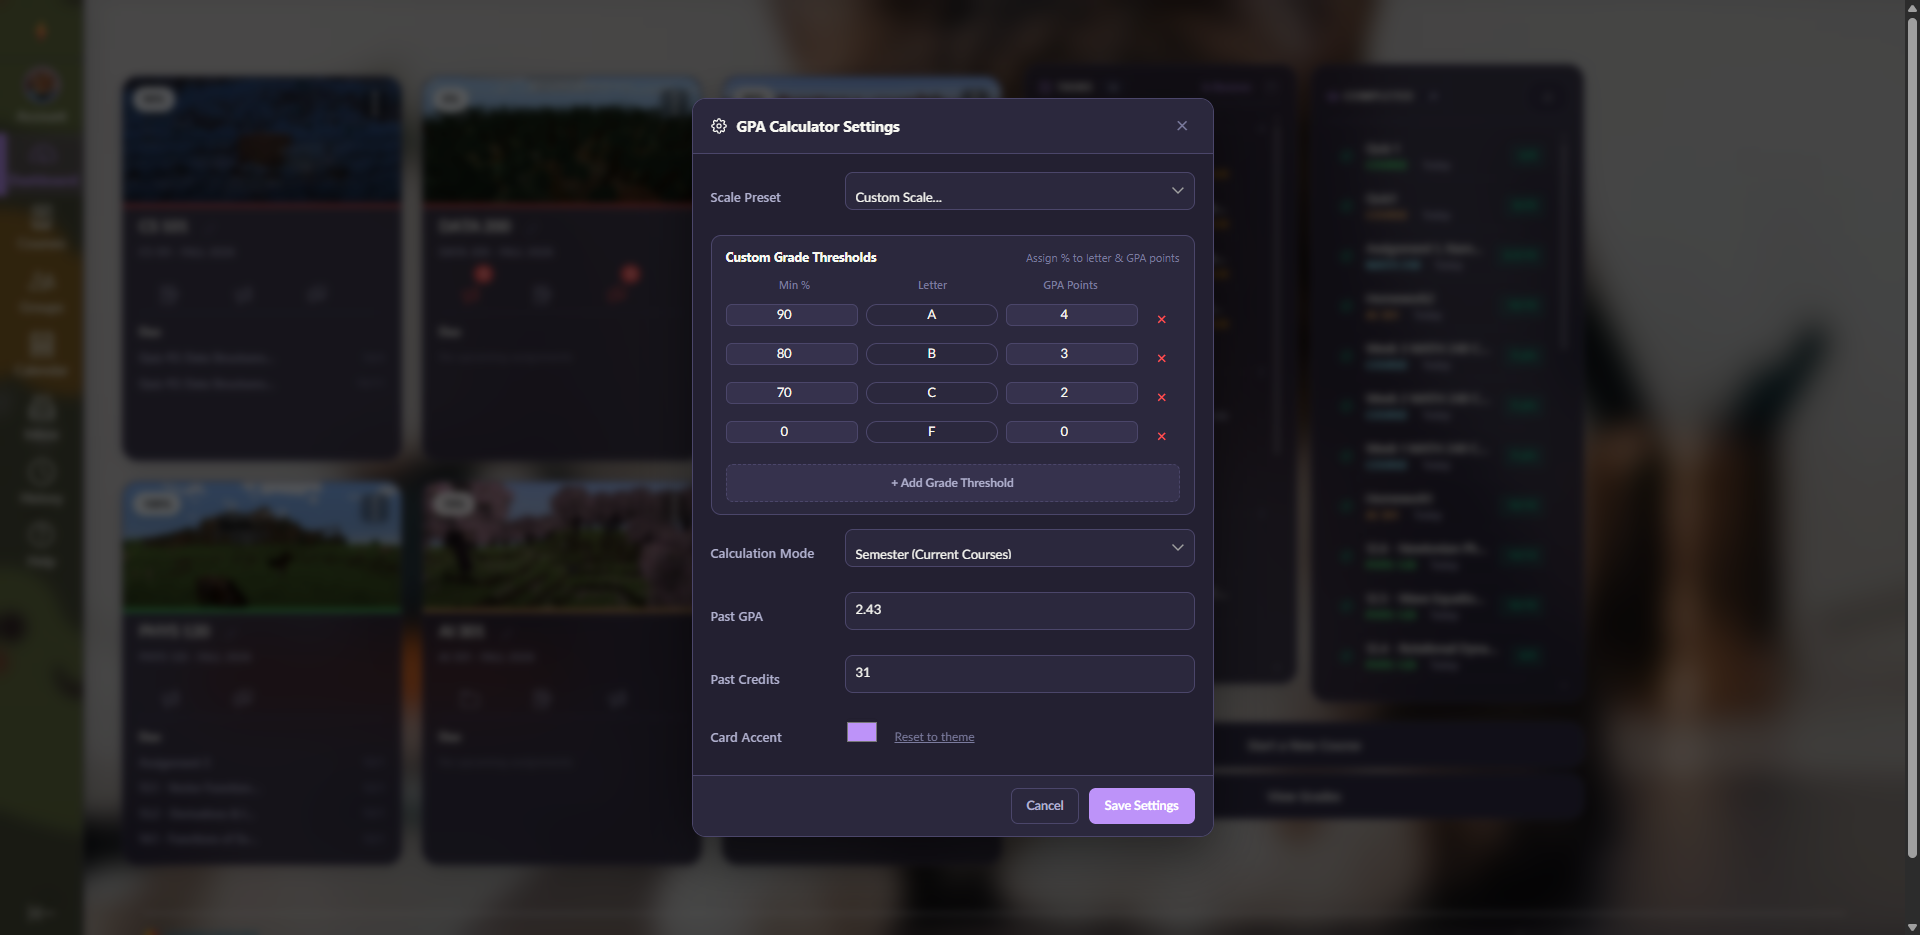
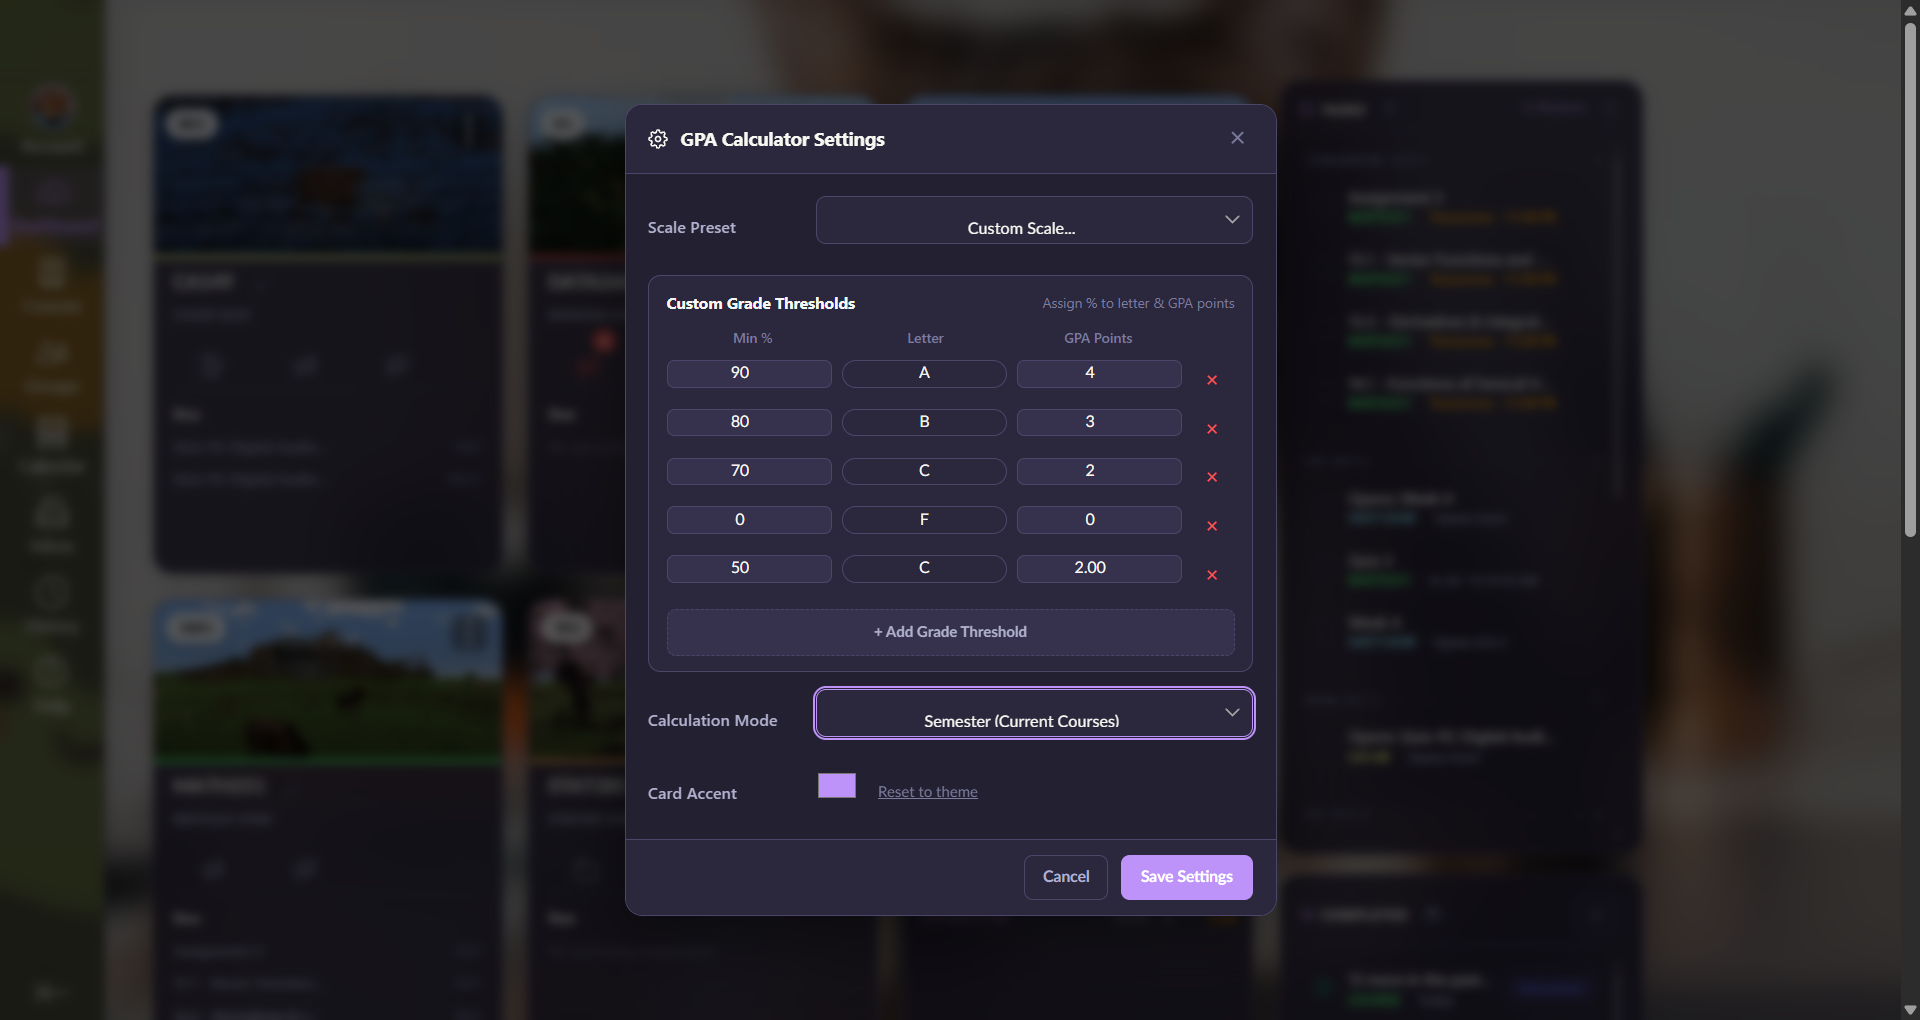
Fix GPA modal closing bug, cumulative toggle bug, and center dropdown text

diff --git a/content/theme-engine.js b/content/theme-engine.js
@@ -1399,8 +1399,18 @@
           }
         }
 
-        // Clean up any existing modal backdrop in document.body
+        // Clean up any existing modal backdrop in document.body, unless it's currently open
         var oldBackdrop = document.getElementById('vibe-gpa-modal-backdrop');
+        if (oldBackdrop && oldBackdrop.classList.contains('vibe-modal-open')) {
+          var sBtn = card.querySelector('.vibe-gpa-settings-btn');
+          if (sBtn) {
+            sBtn.onclick = function(e) {
+              e.preventDefault(); e.stopPropagation();
+              oldBackdrop.classList.add('vibe-modal-open');
+            };
+          }
+          return;
+        }
         if (oldBackdrop) oldBackdrop.remove();
 
         // Settings Modal Popup (Rendered directly on document.body so it is never clipped)
@@ -1443,11 +1453,11 @@
                   '<option value="cumulative"' + (mode === 'cumulative' ? ' selected' : '') + '>Cumulative (Include Past GPA)</option>' +
                 '</select>' +
               '</div>' +
-              '<div class="vibe-gpa-settings-row" id="vibe-gpa-cumulative-row" style="' + (mode === 'cumulative' ? '' : 'display:none') + '">' +
+              '<div class="vibe-gpa-settings-row" id="vibe-gpa-cumulative-row" style="' + (mode === 'cumulative' ? 'display:flex !important;' : 'display:none !important;') + '">' +
                 '<label>Past GPA</label>' +
                 '<input id="vibe-gpa-past-gpa-input" type="number" step="0.01" min="0" max="10" placeholder="e.g. 3.50" value="' + (pastGpa !== null ? pastGpa : '') + '">' +
               '</div>' +
-              '<div class="vibe-gpa-settings-row" id="vibe-gpa-credits-row" style="' + (mode === 'cumulative' ? '' : 'display:none') + '">' +
+              '<div class="vibe-gpa-settings-row" id="vibe-gpa-credits-row" style="' + (mode === 'cumulative' ? 'display:flex !important;' : 'display:none !important;') + '">' +
                 '<label>Past Credits</label>' +
                 '<input id="vibe-gpa-past-credits-input" type="number" step="1" min="0" placeholder="e.g. 60" value="' + (pastCredits || '') + '">' +
               '</div>' +
@@ -1560,8 +1570,8 @@
         if (modeSel && cumRow && credsRow) {
           modeSel.onchange = function() {
             var isCum = modeSel.value === 'cumulative';
-            cumRow.style.display = isCum ? '' : 'none';
-            credsRow.style.display = isCum ? '' : 'none';
+            cumRow.style.setProperty('display', isCum ? 'flex' : 'none', 'important');
+            credsRow.style.setProperty('display', isCum ? 'flex' : 'none', 'important');
           };
         }
 

diff --git a/content/theme.css b/content/theme.css
@@ -5474,6 +5474,10 @@ span[class*="checkboxFacade__facade"] {
   outline: none !important;
   transition: border-color 140ms !important;
 }
+.vibe-gpa-settings-row select {
+  text-align: center !important;
+  text-align-last: center !important;
+}
 .vibe-gpa-settings-row select:focus,
 .vibe-gpa-settings-row input:focus {
   border-color: var(--bcaccent, #b85338) !important;
